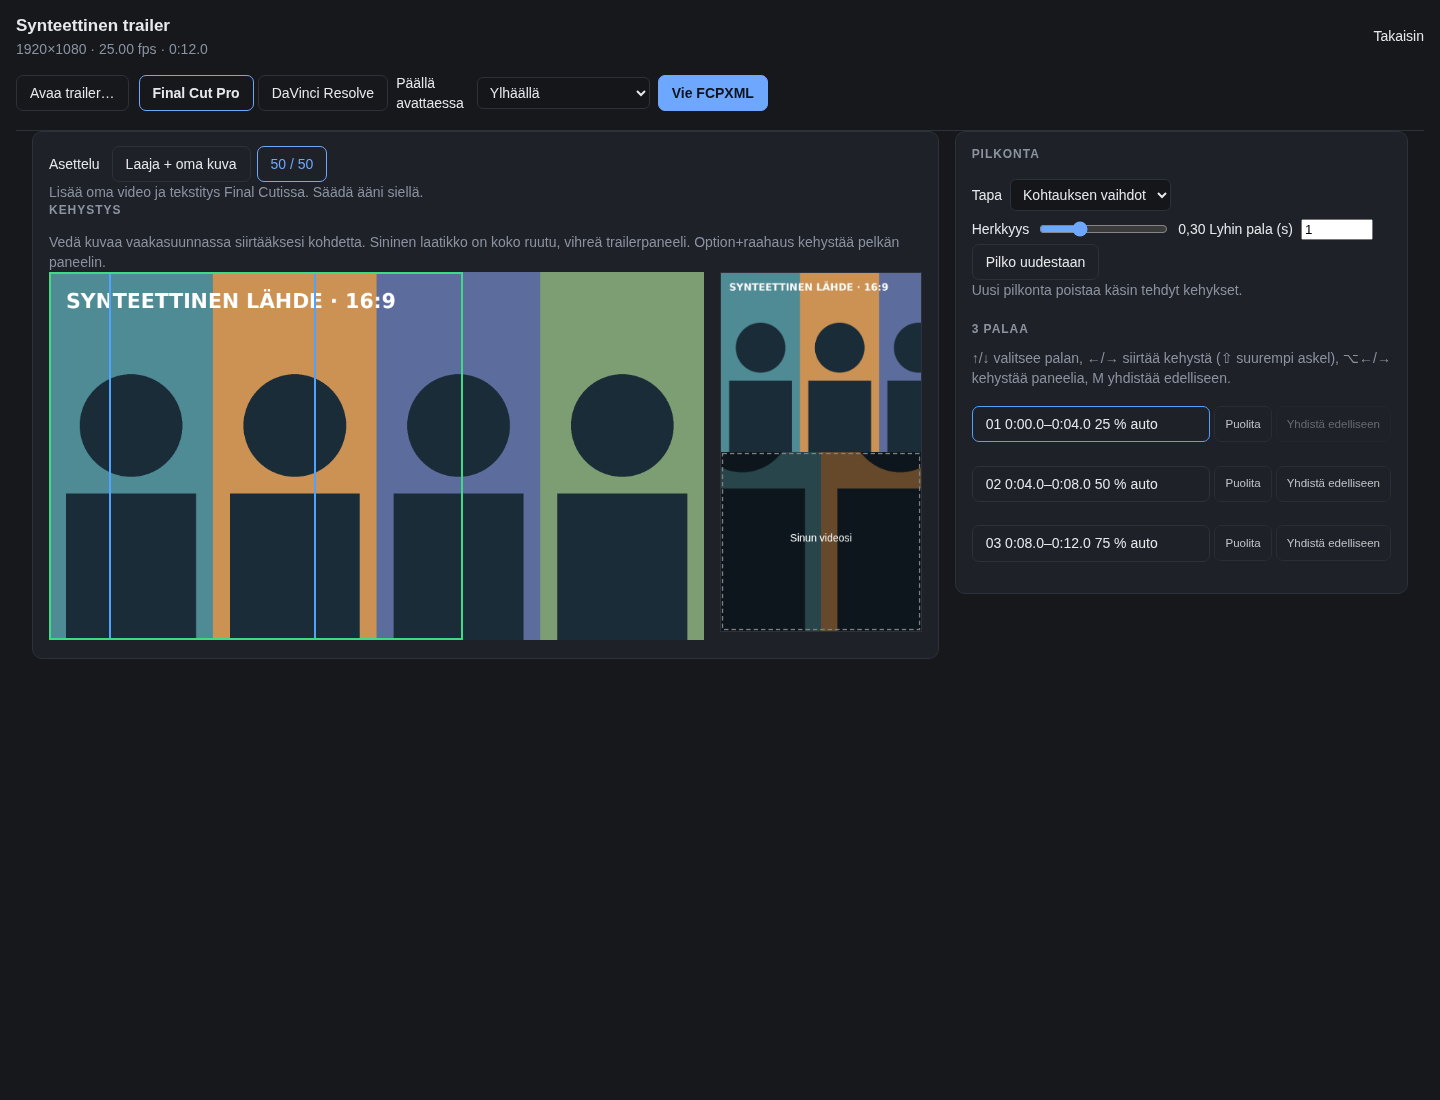
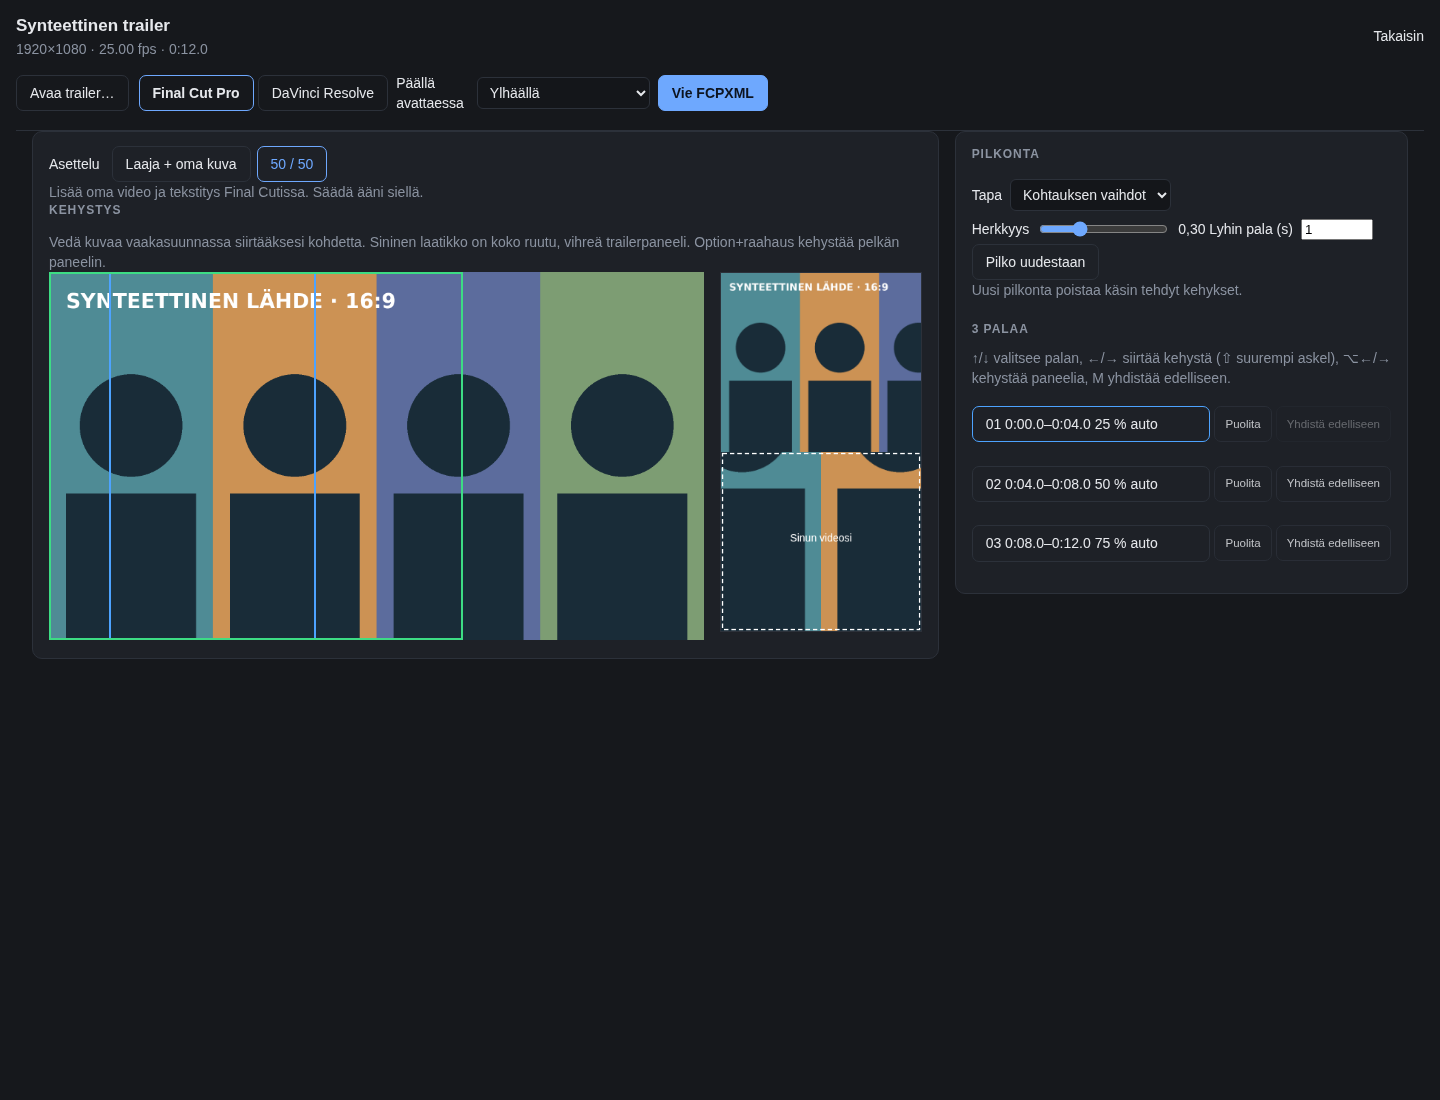
test: pin pre-wide trailer XML and preserve legacy preview pixels

Changed region(s): [[0.5, 0.4018, 0.6562, 0.5873]]

diff --git a/apps/autoraffkat/src/autoraffkat/server/static/trailer.js b/apps/autoraffkat/src/autoraffkat/server/static/trailer.js
@@ -118,7 +118,7 @@ function drawComposite() {
     ctx.strokeRect(2, top ? panelH + 2 : 2, W - 4, remainingH - 4);
     ctx.setLineDash([]);
     ctx.fillStyle = 'rgba(0,0,0,0.5)';
-    ctx.fillRect(0, top ? panelH : 0, W, remainingH);
+    ctx.fillRect(0, top ? panelH : 0, W, 0);
     ctx.fillStyle = '#fff';
     ctx.font = '14px sans-serif';
     ctx.textAlign = 'center';

diff --git a/apps/autoraffkat/tests/test_write_trailer.py b/apps/autoraffkat/tests/test_write_trailer.py
@@ -1,6 +1,7 @@
 """Trailerin kolmikaistainen FCPXML: spine = koko ruutu, päällä ylä- ja alapuolikas."""
 
 from fractions import Fraction
+from pathlib import Path
 from xml.etree import ElementTree as ET
 
 import pytest
@@ -406,7 +407,9 @@ def test_wide_trailer_has_a_clipped_608_pixel_strip_and_frame_exact_offsets(lane
 
 def test_omitted_layout_remains_byte_identical_to_explicit_halves():
     args = (_src(), [(0., 10.)], [0.2], "Review")
-    old = build_trailer_fcpxml(*args)
-    assert build_trailer_fcpxml(*args, layout="halves") == old
+    # Tallennettu puhtaalta mainilta 1bdf95d ennen wide-muutosta.
+    golden = (Path(__file__).parent / "data/trailer-halves-before-wide.fcpxml").read_text()
+    assert build_trailer_fcpxml(*args) == golden
+    assert build_trailer_fcpxml(*args, layout="halves") == golden
     with pytest.raises(WriteError):
         build_trailer_fcpxml(*args, layout="unknown")
